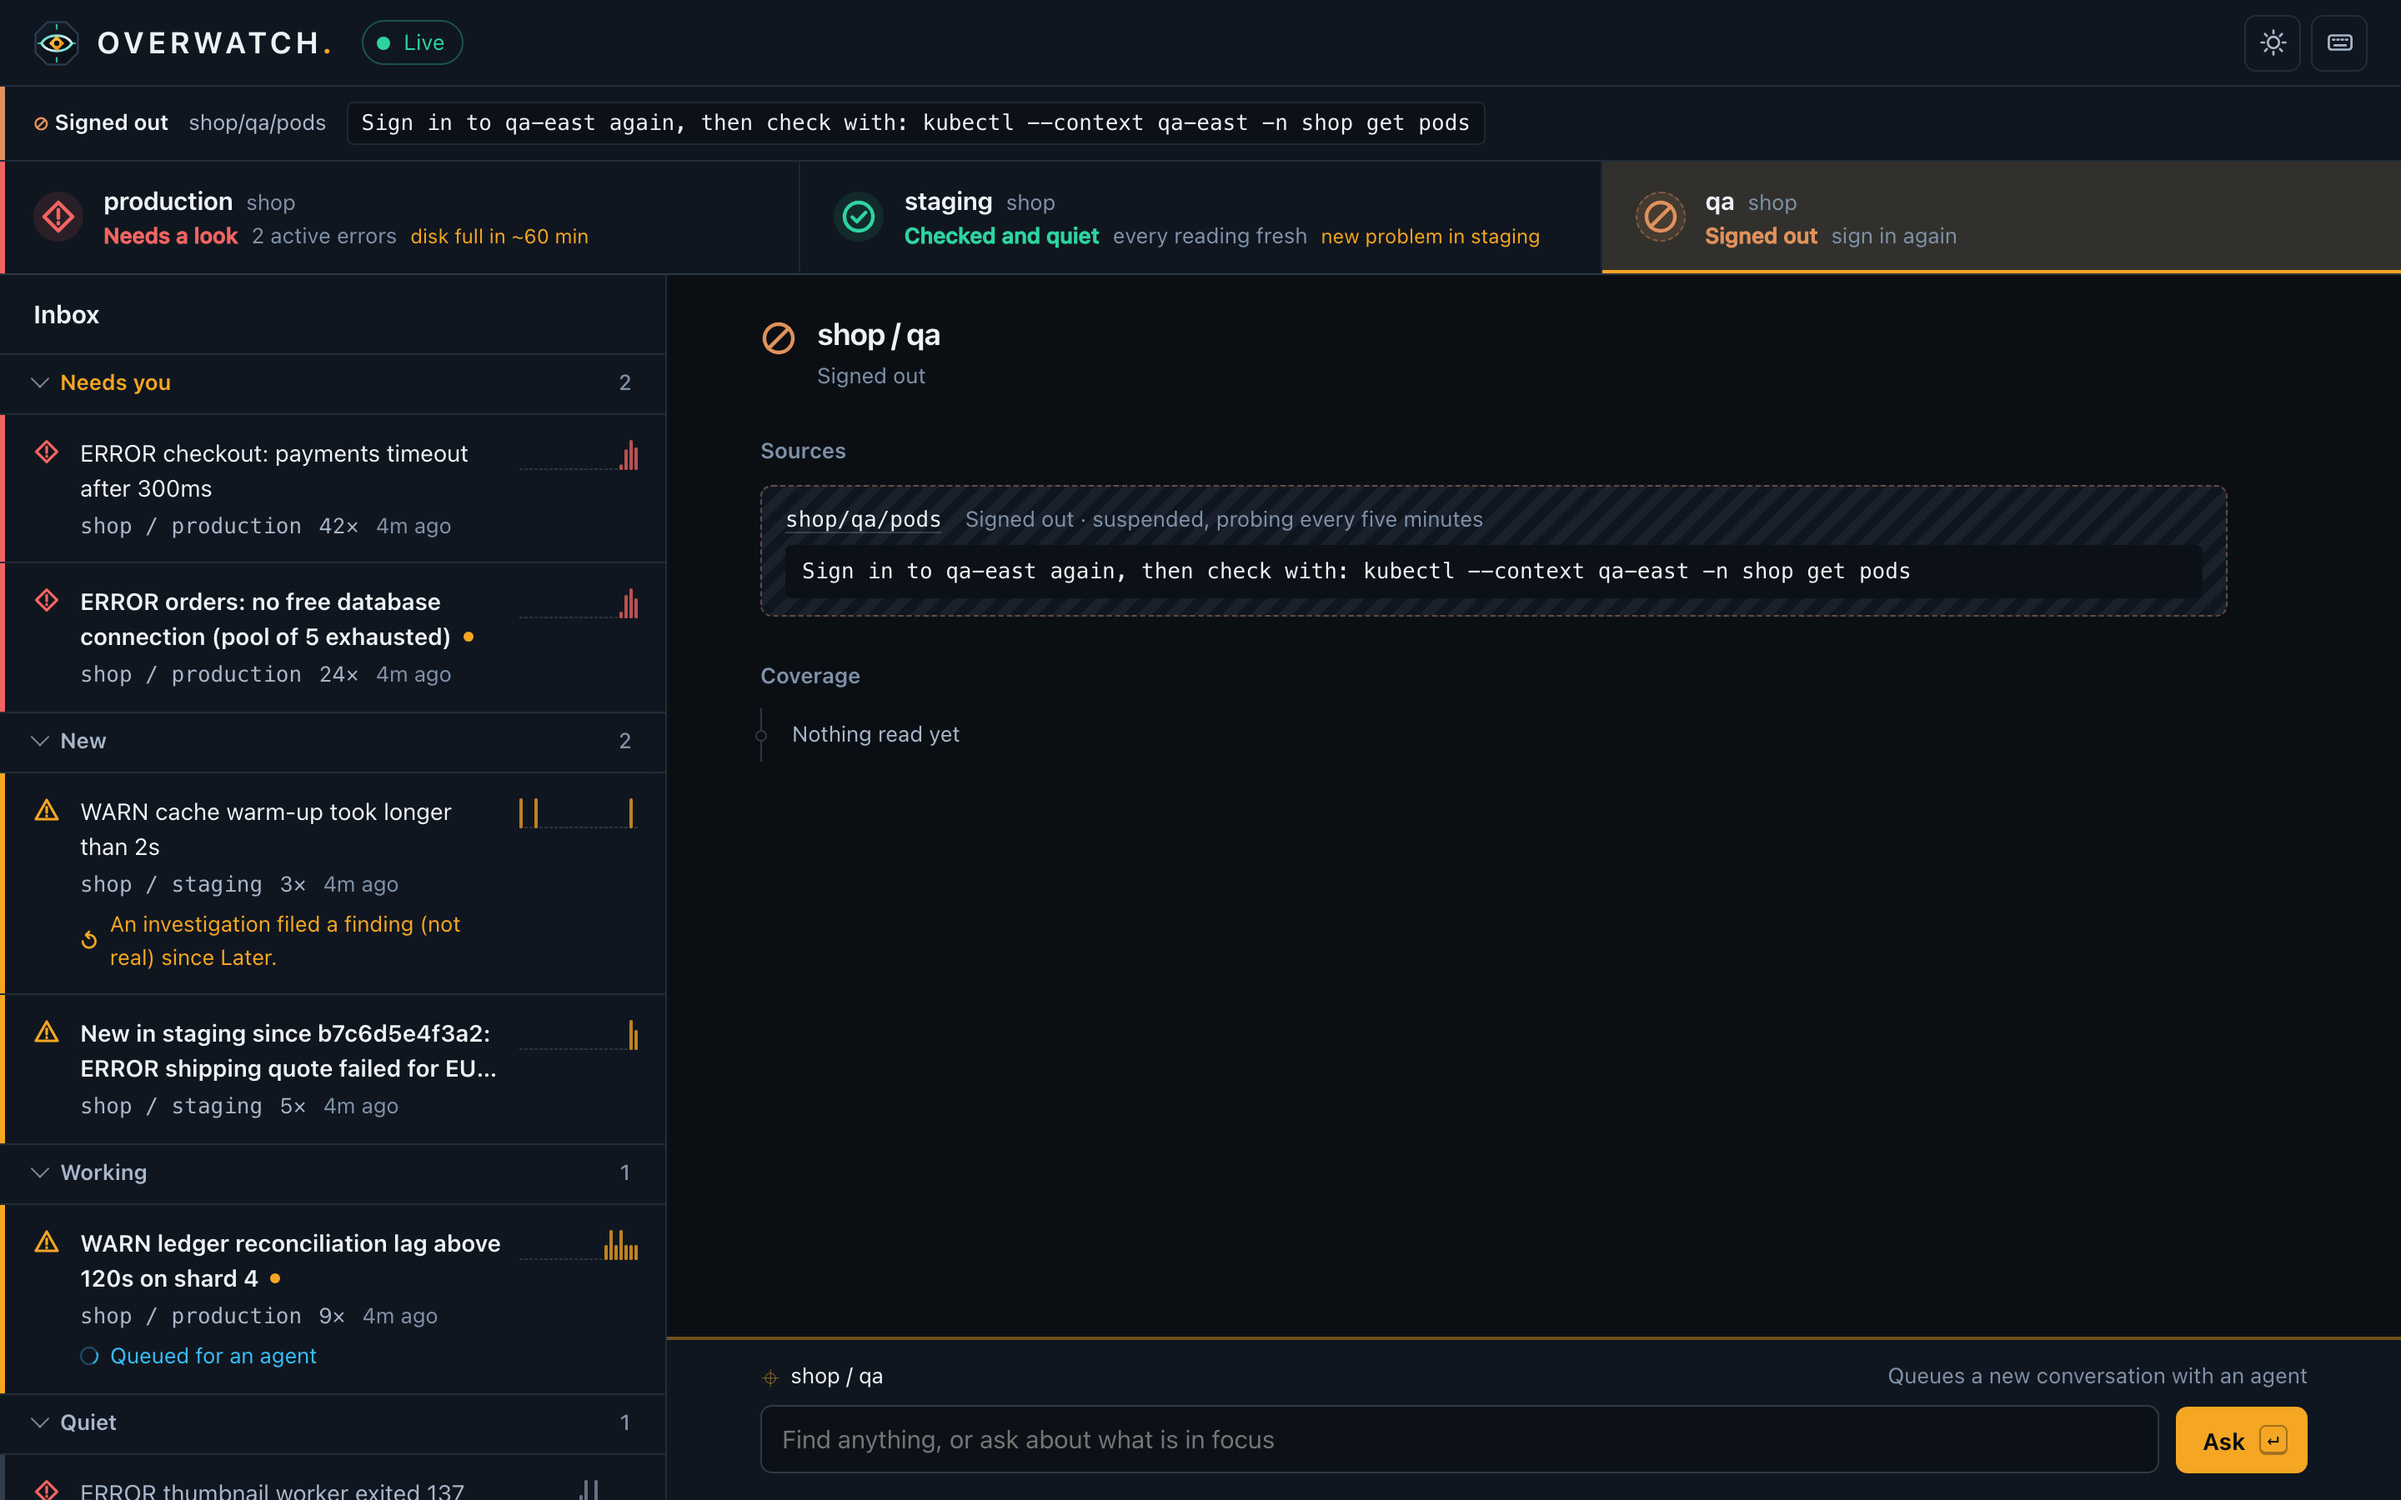
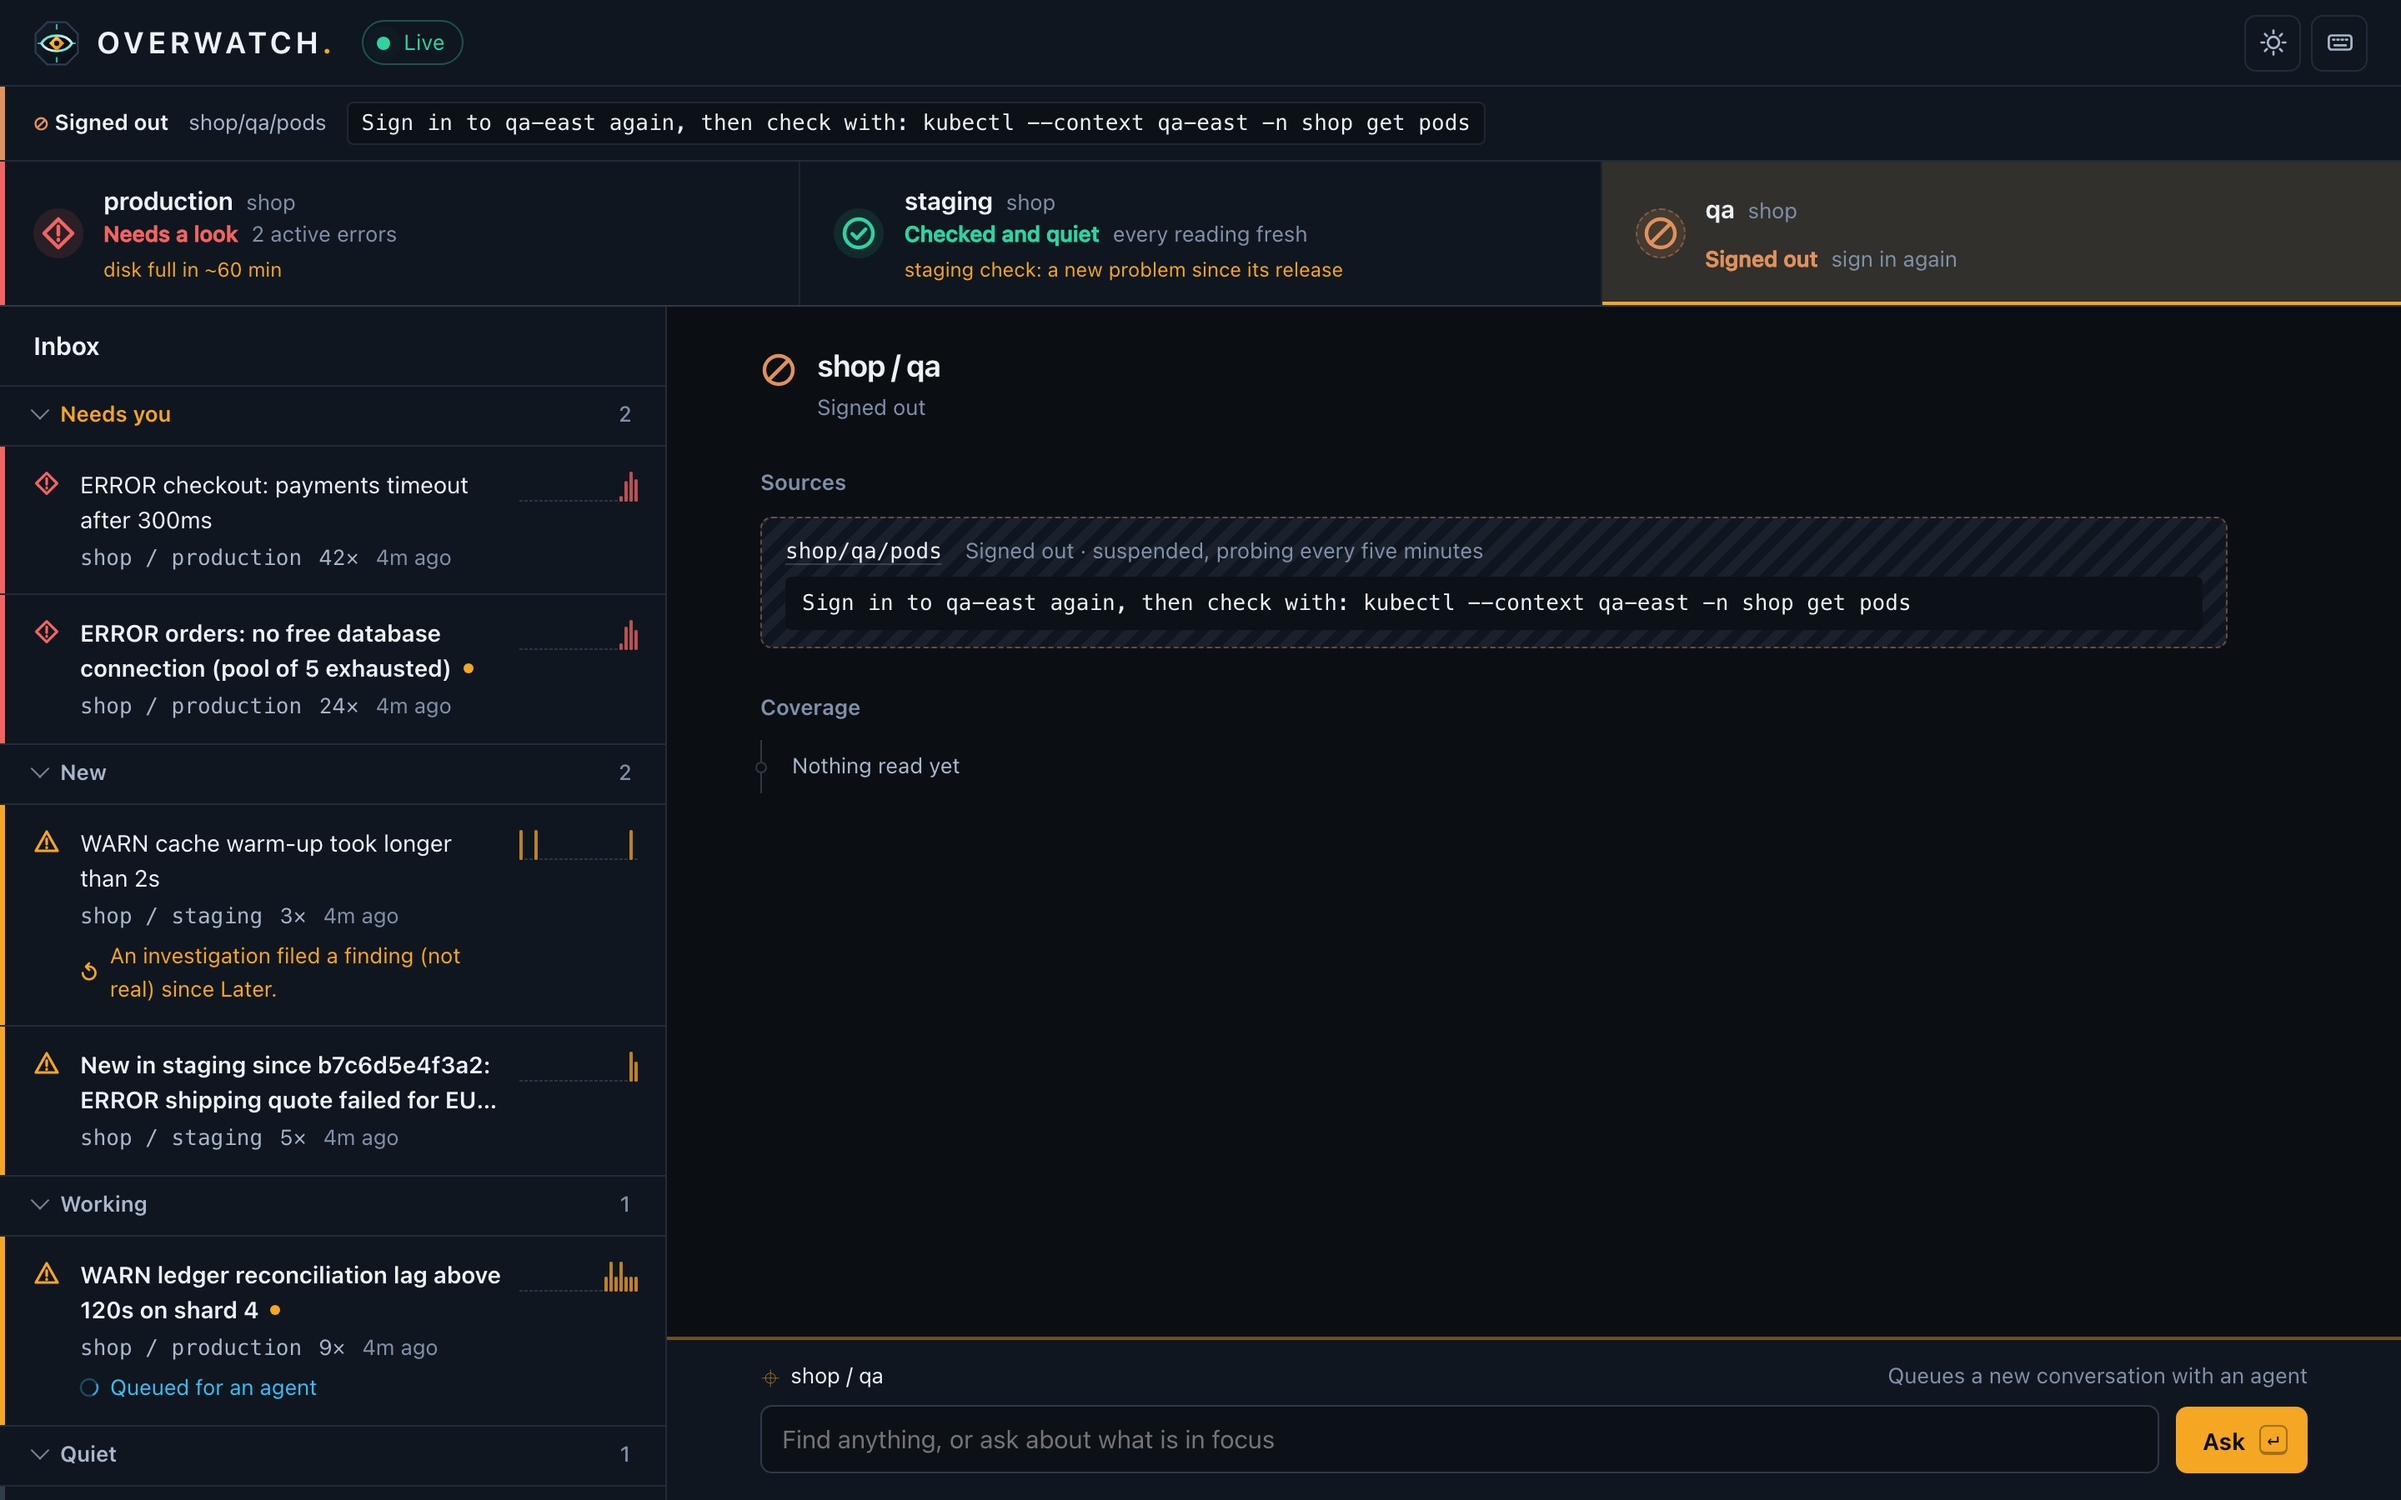
Strip: the look-ahead line sits on its own row; screenshots regenerated

diff --git a/web/page.css b/web/page.css
@@ -92,7 +92,8 @@ svg { fill: none; stroke: currentColor; stroke-width: 1.6; stroke-linecap: round
 .env-name { display: flex; align-items: baseline; gap: 8px; }
 .env-name b { font-size: var(--text-md); font-weight: 640; letter-spacing: -0.01em; }
 .env-name span, .env-state span { color: var(--ink-muted); font-size: var(--text-sm); }
-.env-state { display: flex; gap: 8px; align-items: baseline; font-size: var(--text-sm); }
+.env-state { display: flex; flex-wrap: wrap; gap: 2px 8px; align-items: baseline; font-size: var(--text-sm); }
+.env-state b, .env-state > span:not(.ahead) { white-space: nowrap; }
 .env-state b { font-weight: 560; }
 .env.quiet .glyph { color: var(--state-ok); background: var(--state-ok-surface); }
 .env.quiet .env-state b { color: var(--state-ok); }
@@ -407,7 +408,7 @@ body[data-link="down"] .groups, body[data-link="down"] .stage { opacity: 0.55; f
 @media (prefers-reduced-motion: reduce) { *, *::before, *::after { animation: none !important; transition: none !important; } }
 
 /* ------------------------------------------------------------ looking ahead: time left and staging signals */
-.env-state .ahead { display: block; margin-top: 2px; font-size: var(--text-xs, 12px); color: var(--state-warn); font-variant-numeric: tabular-nums; }
+.env-state .ahead { flex-basis: 100%; margin-top: 0; font-size: var(--text-xs, 12px); color: var(--state-warn); font-variant-numeric: tabular-nums; }
 .env-state .ahead.warn { color: var(--state-warn); }
 .note.warn { color: var(--state-warn); }
 
